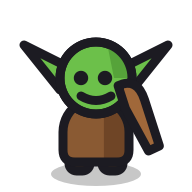
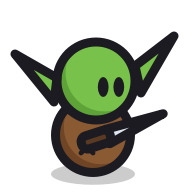
Redraw flat cartoon figures to match Forge Master's construction
Figures are now a round head over a round body with no limbs, tall pill
eyes set toward the facing side, a crescent shade per blob and a weapon
floating across the body. The hero drops the blue hood for a plumed
steel helmet, and the room floor takes the reference's warm dirt tone.

Changed region(s): [[0.0312, 0.1875, 0.875, 0.9688], [0.7812, 0.1562, 0.9375, 0.2812], [0.4375, 0.1875, 0.5625, 0.25]]

diff --git a/tools/art/build_flat_cartoon.py b/tools/art/build_flat_cartoon.py
@@ -24,84 +24,88 @@ if not BOLD.exists():
 
 INK = "#1c1b22"
 LINE = f'stroke="{INK}" stroke-width="3" stroke-linejoin="round" stroke-linecap="round"'
-SHADOW = '<ellipse cx="32" cy="58" rx="15" ry="4" fill="#000" fill-opacity="0.22"/>'
 
 
 def svg(body: str, size: int = 64) -> str:
     return f'<svg xmlns="http://www.w3.org/2000/svg" width="{size}" height="{size}" viewBox="0 0 {size} {size}">{body}</svg>'
 
 
-def bean(x0, y0, x1, y1, fill, shade):
-    """A rounded body: flat fill, one flat shade on the right, outline on top."""
-    r = (x1 - x0) / 2
-    path = f"M{x0} {y0 + r} A{r} {r} 0 0 1 {x1} {y0 + r} L{x1} {y1 - 4} Q{x1} {y1} {x1 - 4} {y1} L{x0 + 4} {y1} Q{x0} {y1} {x0} {y1 - 4} Z"
-    mid = x0 + (x1 - x0) * 0.62
-    shade_path = f"M{mid} {y0 + 1} A{r} {r} 0 0 1 {x1} {y0 + r} L{x1} {y1 - 4} Q{x1} {y1} {x1 - 4} {y1} L{mid} {y1} Z"
-    return (f'<path d="{path}" fill="{fill}"/><path d="{shade_path}" fill="{shade}"/>'
-            f'<path d="{path}" fill="none" {LINE}/>')
+def blob(cx, cy, r, fill, shade, uid):
+    """One Forge Master blob: a flat circle whose lower-left is a darker crescent
+    (the shade circle, with the fill circle nudged up-right over it)."""
+    return (f'<clipPath id="{uid}"><circle cx="{cx}" cy="{cy}" r="{r}"/></clipPath>'
+            f'<circle cx="{cx}" cy="{cy}" r="{r}" fill="{shade}"/>'
+            f'<circle cx="{cx + r * 0.22}" cy="{cy - r * 0.22}" r="{r}" fill="{fill}" clip-path="url(#{uid})"/>'
+            f'<circle cx="{cx}" cy="{cy}" r="{r}" fill="none" {LINE}/>')
 
 
-def feet(color="#4a3325"):
-    return (f'<rect x="23" y="51" width="7" height="6" rx="2.5" fill="{color}" {LINE}/>'
-            f'<rect x="34" y="51" width="7" height="6" rx="2.5" fill="{color}" {LINE}/>')
+def pills(cx, cy, gap=5.2, rx=1.8, ry=3.3):
+    """The eyes: two tall pills, set toward the way the figure faces (right)."""
+    return (f'<ellipse cx="{cx - gap / 2}" cy="{cy}" rx="{rx}" ry="{ry}" fill="{INK}"/>'
+            f'<ellipse cx="{cx + gap / 2}" cy="{cy}" rx="{rx}" ry="{ry}" fill="{INK}"/>')
 
 
-def eyes(cx, cy, gap=7, r=2.2, color=INK):
-    return f'<circle cx="{cx - gap / 2}" cy="{cy}" r="{r}" fill="{color}"/><circle cx="{cx + gap / 2}" cy="{cy}" r="{r}" fill="{color}"/>'
+def figure(uid, body, head, eyes="", hat="", weapon="", mark="", head_r=14.5, body_r=12.5):
+    """Head over body, no limbs: the whole Forge Master figure. The weapon
+    floats across the body in front of everything."""
+    body_fill, body_shade = body
+    head_fill, head_shade = head
+    return ('<ellipse cx="31" cy="58" rx="14" ry="3.6" fill="#000" fill-opacity="0.2"/>'
+            + blob(31, 45, body_r, body_fill, body_shade, uid + "b") + mark
+            + blob(32, 27, head_r, head_fill, head_shade, uid + "h") + eyes + hat + weapon)
 
+
+STITCH = f'<path d="M27 47 L31 51 M31 47 L27 51" stroke="{INK}" stroke-width="1.6" stroke-linecap="round"/>'
+SKIN = ("#f6c79a", "#e0a574")
 
 SPRITES = {
-    "hero": SHADOW + feet() + bean(20, 30, 44, 54, "#3b72db", "#2c58b0")
-    + f'<rect x="20" y="42" width="24" height="4" fill="#6b4524" {LINE}/>'
-    + f'<rect x="30" y="41" width="5" height="6" rx="1" fill="#f2c64b" {LINE}/>'
-    + f'<circle cx="32" cy="24" r="12" fill="#f5c28e" {LINE}/>'
-    + f'<path d="M19 26 Q18 10 32 9 Q46 10 45 26 L41 26 Q41 17 32 17 Q23 17 23 26 Z" fill="#2c58b0" {LINE}/>'
-    + eyes(33, 25)
-    + f'<g transform="rotate(35 48 34)"><rect x="46" y="12" width="5" height="24" rx="1.5" fill="#dfe6ef" {LINE}/>'
-    + f'<rect x="42" y="35" width="13" height="4" rx="2" fill="#f2c64b" {LINE}/>'
-    + f'<rect x="46.5" y="39" width="4" height="7" rx="1.5" fill="#6b4524" {LINE}/></g>',
+    "hero": figure(
+        "hero", ("#5d6b82", "#48546a"), SKIN, pills(37, 32.5, 5.2, 1.8, 3.0),
+        hat=(f'<path d="M16.5 25 Q16 10 32 10 Q48 10 47.5 25 Z" fill="#c9d2de" {LINE}/>'
+             '<path d="M36 11 Q47 13 47.5 25 L40 25 Z" fill="#aeb8c6"/>'
+             f'<path d="M16.5 25 Q16 10 32 10 Q48 10 47.5 25 Z" fill="none" {LINE}/>'
+             f'<rect x="14" y="23" width="36" height="5" rx="2.5" fill="#aeb8c6" {LINE}/>'
+             f'<path d="M30 11 Q24 2 16 5 Q22 7 25 13 Z" fill="#e0453a" {LINE}/>'),
+        weapon=(f'<g transform="rotate(-12 34 44)"><rect x="34" y="41" width="27" height="5.5" rx="1.5" fill="#e8eef5" {LINE}/>'
+                f'<rect x="31" y="36.5" width="5" height="14.5" rx="2" fill="#f2c64b" {LINE}/>'
+                f'<rect x="21" y="41.5" width="11" height="4.5" rx="2" fill="#7a4a26" {LINE}/></g>'),
+        mark=f'<path d="M20 41 Q31 47 42 41" fill="none" stroke="#c0392f" stroke-width="5" stroke-linecap="round"/>'),
 
-    "goblin": SHADOW + feet("#3a2a1c") + bean(21, 33, 43, 54, "#8a5a33", "#6f4526")
-    + f'<path d="M22 22 L8 15 L20 30 Z" fill="#6cc04a" {LINE}/><path d="M42 22 L56 15 L44 30 Z" fill="#6cc04a" {LINE}/>'
-    + f'<circle cx="32" cy="26" r="12" fill="#6cc04a" {LINE}/>'
-    + '<path d="M36 16 A12 12 0 0 1 44 26 L38 26 Z" fill="#56a33a"/>'
-    + f'<circle cx="32" cy="26" r="12" fill="none" {LINE}/>'
-    + eyes(31, 26, 8, 2.4, "#1c1b22")
-    + f'<path d="M27 32 Q32 35 37 32" fill="none" {LINE}/>'
-    + f'<g transform="rotate(-25 48 40)"><path d="M45 26 Q52 26 51 34 L49 50 L45 50 L44 34 Z" fill="#a0683a" {LINE}/></g>',
+    "goblin": figure(
+        "goblin", ("#8a5a33", "#6f4526"), ("#78c24c", "#5ea338"), pills(37, 29),
+        hat=(f'<path d="M19 26 L5 18 L18 34 Z" fill="#78c24c" {LINE}/>'
+             f'<path d="M45 22 L58 12 L47 31 Z" fill="#78c24c" {LINE}/>'),
+        weapon=(f'<g transform="rotate(-18 36 46)"><path d="M36 43 L56 44 L36 48 Z" fill="#dfe6ef" {LINE}/>'
+                f'<rect x="27" y="43" width="10" height="4.5" rx="2" fill="#5a3a22" {LINE}/></g>'),
+        mark=STITCH, head_r=13),
 
-    "skeleton": SHADOW + feet("#d8d2c0") + bean(22, 34, 42, 54, "#8e3a3a", "#722c2c")
-    + f'<path d="M27 38 L37 38 M27 43 L37 43 M27 48 L37 48" {LINE}/>'
-    + f'<circle cx="32" cy="24" r="12" fill="#f1ecdc" {LINE}/>'
-    + f'<rect x="26" y="31" width="12" height="7" rx="2" fill="#f1ecdc" {LINE}/>'
-    + '<path d="M36 13 A12 12 0 0 1 44 24 L38 26 Z" fill="#dcd5c0"/>'
-    + f'<circle cx="32" cy="24" r="12" fill="none" {LINE}/>'
-    + f'<ellipse cx="27.5" cy="24" rx="3" ry="3.4" fill="{INK}"/><ellipse cx="36.5" cy="24" rx="3" ry="3.4" fill="{INK}"/>'
-    + f'<path d="M30 34 L30 38 M34 34 L34 38" {LINE}/>'
-    + f'<g transform="rotate(30 48 40)"><rect x="45" y="26" width="5" height="22" rx="2.5" fill="#f1ecdc" {LINE}/>'
-    + f'<circle cx="45.5" cy="26" r="3" fill="#f1ecdc" {LINE}/><circle cx="50" cy="26" r="3" fill="#f1ecdc" {LINE}/></g>',
+    "skeleton": ('<ellipse cx="31" cy="58" rx="14" ry="3.6" fill="#000" fill-opacity="0.2"/>'
+        + blob(31, 45, 12.5, "#b8433b", "#963229", "skb") + STITCH
+        + '<clipPath id="skh"><path d="M19 27 Q19 12 33 12 Q47 12 47 27 L47 33 Q47 38 42 38 L24 38 Q19 38 19 33 Z"/></clipPath>'
+        + '<path d="M19 27 Q19 12 33 12 Q47 12 47 27 L47 33 Q47 38 42 38 L24 38 Q19 38 19 33 Z" fill="#e2d8bd"/>'
+        + '<path d="M22 24 Q22 14 36 13 Q49 14 49 27 L49 35 Q49 36 44 36 L24 36 Q22 36 22 33 Z" fill="#f4ecd6" clip-path="url(#skh)"/>'
+        + f'<path d="M19 27 Q19 12 33 12 Q47 12 47 27 L47 33 Q47 38 42 38 L24 38 Q19 38 19 33 Z" fill="none" {LINE}/>'
+        + f'<rect x="33.4" y="22" width="3.4" height="8" rx="1.7" fill="{INK}"/><rect x="39.6" y="22" width="3.4" height="8" rx="1.7" fill="{INK}"/>'
+        + f'<g transform="rotate(-14 30 46)"><path d="M10 43 Q9 39 13 39 L50 41 Q53 43.5 50 46 L13 47 Q9 47 10 43 Z" fill="#a8703e" {LINE}/>'
+        + f'<path d="M20 40 L16 34 Q15 32 17 32 L22 39" fill="#a8703e" {LINE}/>'
+        + '<ellipse cx="12.5" cy="43" rx="1.6" ry="2.6" fill="#d9a870"/></g>'),
 
-    "rat": '<ellipse cx="32" cy="57" rx="18" ry="4" fill="#000" fill-opacity="0.22"/>'
-    + f'<path d="M48 48 Q60 46 58 36" fill="none" stroke="{INK}" stroke-width="6" stroke-linecap="round"/>'
-    + '<path d="M48 48 Q60 46 58 36" fill="none" stroke="#e9a0a6" stroke-width="3" stroke-linecap="round"/>'
-    + f'<ellipse cx="34" cy="45" rx="16" ry="11" fill="#8a8a96" {LINE}/>'
-    + '<path d="M34 34 A16 11 0 0 1 50 45 A16 11 0 0 1 36 56 Z" fill="#72727f"/>'
-    + f'<ellipse cx="34" cy="45" rx="16" ry="11" fill="none" {LINE}/>'
-    + f'<circle cx="20" cy="33" r="5" fill="#e9a0a6" {LINE}/>'
-    + f'<path d="M26 40 Q12 38 9 46 Q12 51 22 51" fill="#8a8a96" {LINE}/>'
-    + f'<circle cx="9" cy="46" r="2" fill="{INK}"/><circle cx="18" cy="44" r="2.2" fill="{INK}"/>'
-    + f'<path d="M26 55 L26 58 M40 55 L40 58" {LINE}/>',
+    "rat": ('<ellipse cx="32" cy="58" rx="17" ry="3.6" fill="#000" fill-opacity="0.2"/>'
+        + f'<path d="M15 50 Q4 50 5 40" fill="none" stroke="{INK}" stroke-width="6" stroke-linecap="round"/>'
+        + '<path d="M15 50 Q4 50 5 40" fill="none" stroke="#e9a0a6" stroke-width="2.6" stroke-linecap="round"/>'
+        + blob(28, 46, 12, "#8f8f9c", "#737382", "ratb")
+        + blob(40, 40, 10.5, "#9d9daa", "#80808e", "rath")
+        + f'<circle cx="36" cy="29" r="5" fill="#e9a0a6" {LINE}/>'
+        + f'<ellipse cx="44" cy="38" rx="1.7" ry="3" fill="{INK}"/>'
+        + f'<circle cx="50.5" cy="42" r="2.2" fill="#e9a0a6" {LINE}/>'),
 
-    "orc": SHADOW + feet("#3a2a1c") + bean(17, 30, 47, 55, "#6e8c3a", "#5a7430")
-    + f'<rect x="17" y="42" width="30" height="5" fill="#5a3a22" {LINE}/>'
-    + f'<path d="M17 34 Q14 30 18 28 L26 32 Z" fill="#9aa3b3" {LINE}/><path d="M47 34 Q50 30 46 28 L38 32 Z" fill="#9aa3b3" {LINE}/>'
-    + f'<circle cx="32" cy="22" r="13" fill="#7fa447" {LINE}/>'
-    + '<path d="M37 10 A13 13 0 0 1 45 22 L39 22 Z" fill="#6a8c3a"/>'
-    + f'<circle cx="32" cy="22" r="13" fill="none" {LINE}/>'
-    + f'<path d="M24 16 L30 18.5 M40 16 L34 18.5" {LINE}/>' + eyes(32, 23, 9, 2.2)
-    + f'<path d="M26 31 L27 27 L29 31 M38 31 L37 27 L35 31" fill="#fbf6e6" {LINE}/>'
-    + f'<g transform="rotate(20 52 30)"><rect x="50" y="14" width="4" height="34" rx="2" fill="#8a5a33" {LINE}/>'
-    + f'<path d="M52 16 Q64 16 62 28 Q58 24 52 26 Z" fill="#c9d1dc" {LINE}/></g>',
+    "orc": figure(
+        "orc", ("#4d3a2c", "#3a2b20"), ("#86a94c", "#6d8e3a"), pills(38, 30, 5.6, 1.9, 3.1),
+        hat=(f'<path d="M31 25 L36 27 M41 27 L46 25" stroke="{INK}" stroke-width="2.4" stroke-linecap="round"/>'
+             f'<path d="M34 37 L35.5 32.5 L37.5 37 Z M42 37 L43 32.5 L45 37 Z" fill="#fbf6e6" {LINE}/>'),
+        weapon=(f'<g transform="rotate(-20 34 46)"><rect x="14" y="43" width="42" height="4.5" rx="2" fill="#8a5a33" {LINE}/>'
+                f'<path d="M50 44 Q50 32 60 30 Q63 40 60 50 Q56 56 50 49 Z" fill="#c9d1dc" {LINE}/></g>'),
+        mark=STITCH, head_r=16, body_r=14),
 }
 
 PROPS = {
@@ -164,14 +168,14 @@ def room_svg(width: int, height: int, cols: int, rows: int) -> str:
     tile = width / cols
     wall_h = tile * 1.6
     parts = [f'<rect width="{width}" height="{height}" fill="#2a2b36"/>']
-    parts.append(f'<rect x="{tile * 0.5}" y="{wall_h}" width="{width - tile}" height="{height - wall_h - tile * 0.5}" fill="#a9aebb"/>')
+    parts.append(f'<rect x="{tile * 0.5}" y="{wall_h}" width="{width - tile}" height="{height - wall_h - tile * 0.5}" fill="#cdb68a"/>')
     for c in range(1, cols):
         x = tile * 0.5 + (c - 0.5) * tile
-        parts.append(f'<path d="M{x} {wall_h} L{x} {height - tile * 0.5}" stroke="#979cab" stroke-width="3"/>')
+        parts.append(f'<path d="M{x} {wall_h} L{x} {height - tile * 0.5}" stroke="#bea77b" stroke-width="3"/>')
     for r in range(1, rows):
         y = wall_h + r * tile - tile * 0.35
         if y < height - tile * 0.5:
-            parts.append(f'<path d="M{tile * 0.5} {y} L{width - tile * 0.5} {y}" stroke="#979cab" stroke-width="3"/>')
+            parts.append(f'<path d="M{tile * 0.5} {y} L{width - tile * 0.5} {y}" stroke="#bea77b" stroke-width="3"/>')
     parts.append(f'<rect x="{tile * 0.5}" y="{wall_h}" width="{width - tile}" height="{height - wall_h - tile * 0.5}" fill="none" {LINE}/>')
     # Back wall: two courses of big flat blocks.
     parts.append(f'<rect x="{tile * 0.5}" y="{tile * 0.2}" width="{width - tile}" height="{wall_h - tile * 0.2}" fill="#7d8394" {LINE}/>')
@@ -196,7 +200,7 @@ def room_svg(width: int, height: int, cols: int, rows: int) -> str:
         px, py = width * x, height * y
         parts.append(f'<path d="M{px} {py} l4 -9 l4 9 l4 -12 l3 12" fill="none" stroke="{INK}" stroke-width="2.5" stroke-linecap="round" stroke-linejoin="round"/>')
     for x, y, r in ((0.35, 0.33, 6), (0.62, 0.72, 5), (0.22, 0.52, 4)):
-        parts.append(f'<ellipse cx="{width * x}" cy="{height * y}" rx="{r * 1.5}" ry="{r}" fill="#8a8f9e" {LINE}/>')
+        parts.append(f'<ellipse cx="{width * x}" cy="{height * y}" rx="{r * 1.5}" ry="{r}" fill="#a8946c" {LINE}/>')
     return svg("".join(parts)).replace('width="64" height="64" viewBox="0 0 64 64"', f'width="{width}" height="{height}" viewBox="0 0 {width} {height}"')
 
 
